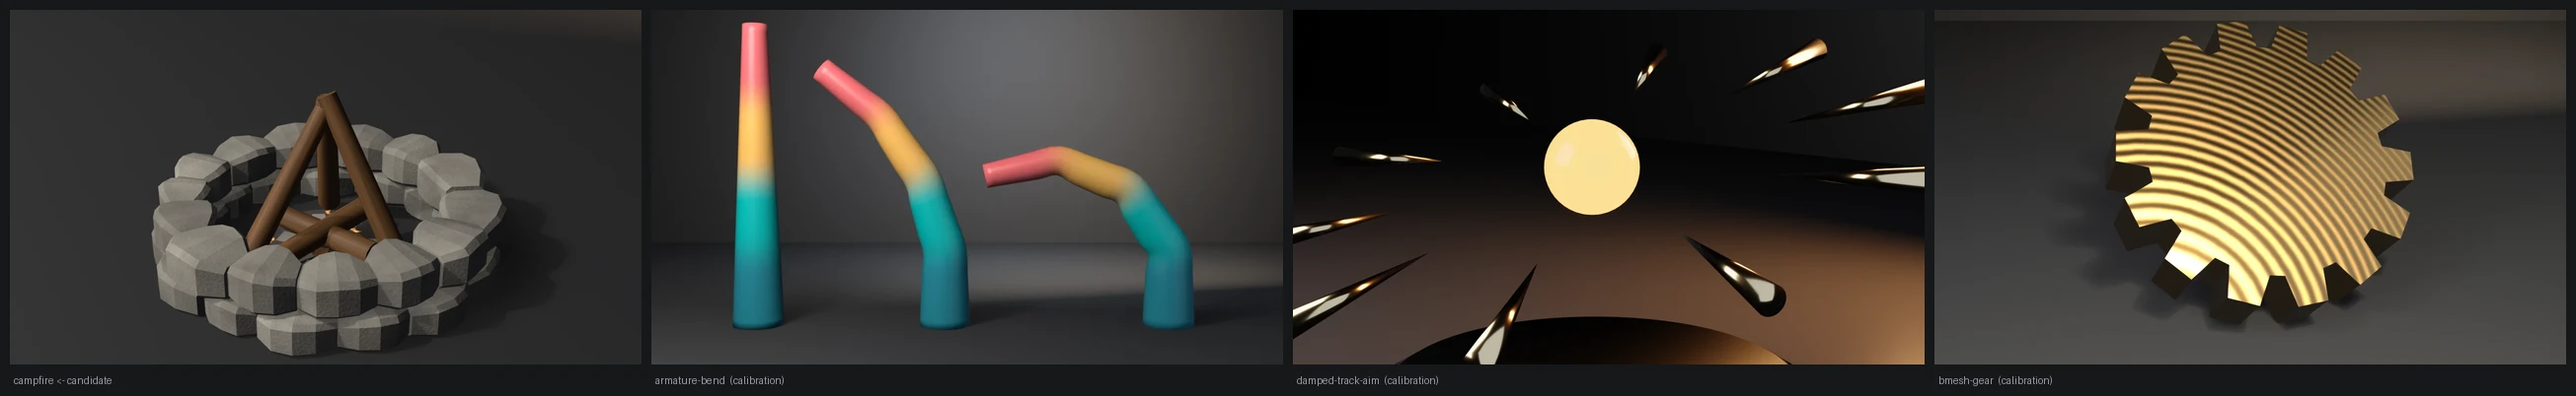
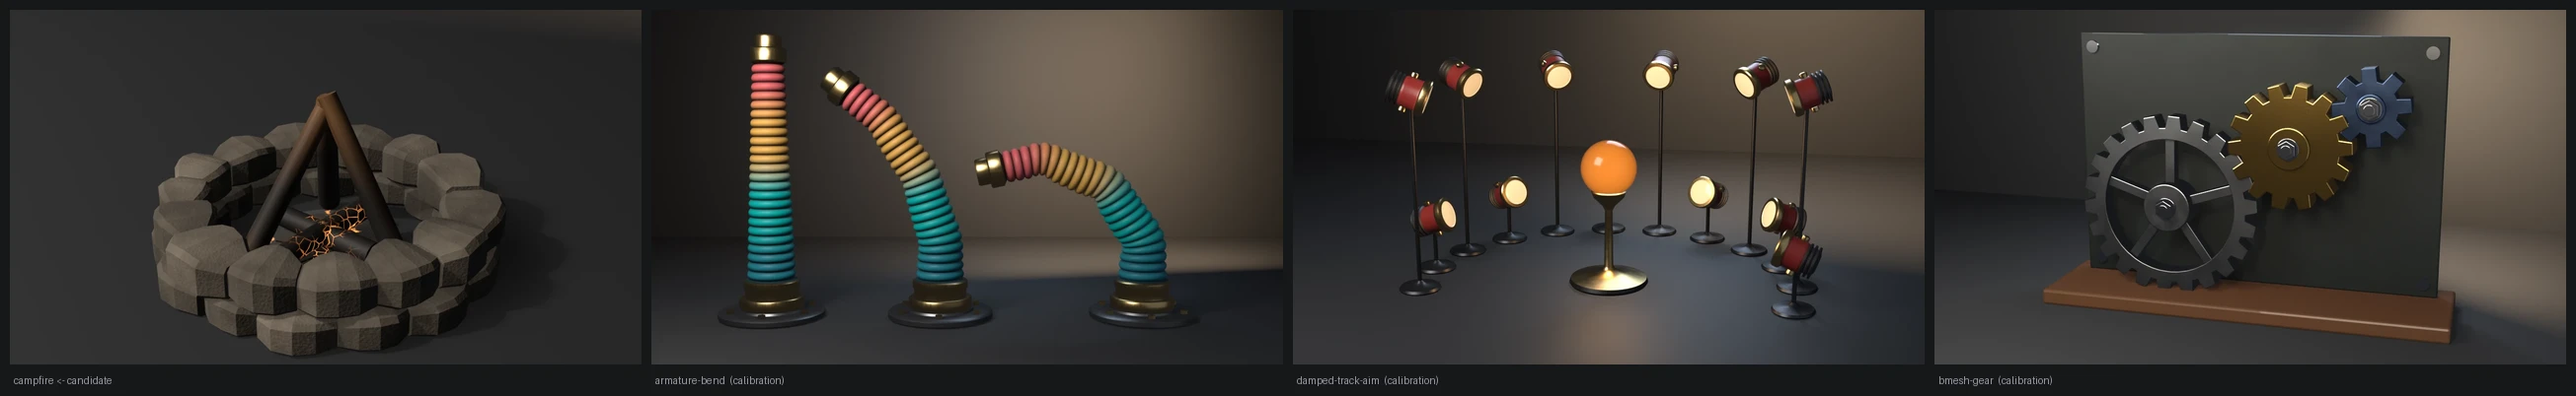
fix(showcase): char the campfire logs, crack the coals and soot the ring
The fire had never been lit: clean bark-brown sticks and a pale
concrete-grey ring. A heat field (distance from a core just above the
ash bed) now drives the shared shaders. Wood chars to near-black toward
the flames; the hottest char shows a Voronoi crack network, noise-masked
so only some cracks glow; stones are smoke-blackened on their inner
faces. Stone base colours move to a warm dark fieldstone with a wider
per-stone tone spread and a stronger pitting bump. The render adds a
warm shadow-soft point light in the ember bed. No geometry, slot or
budget change. Adds the CampfireLow/TroughLow/TowerLow SELECT rows to
scripts/asset_sheet.py so the asset-sheet gate can run on all three
round-three pieces.

Evidence (live, local .scratch binaries):
- blender-5.2.1-windows-x64 (Blender 5.2.1 LTS) and
  blender-4.5.11-windows-x64 (Blender 4.5.11 LTS): default exit 0;
  --skip-decimate 9, --stray-vert 15, --lift-z 16, --short-stones 16,
  --float-logs 17, --gap-courses 18, --uniform-stones 20 on both.
- --output renders and passes framing on both (fill y 0.750, margins
  >= 0.022).
- Contact sheet: luma 0.179 / stage 0.169 / warmth +0.093 / sat 0.074.
  Darker and less saturated than the calibration set (0.237-0.243 luma);
  the subject is grey stone and char by nature.
- Asset sheet (docs/gallery/asset-sheets/campfire.webp): reads as a lit
  fire pit beside the hydrant, drone, well, wheelbarrow and shelf; not
  the least-designed object.

diff --git a/showcase/campfire/campfire.py b/showcase/campfire/campfire.py
@@ -839,10 +839,77 @@ def wood_material(name):
     rough.inputs["To Max"].default_value = 0.52
     nt.links.new(noise.outputs["Fac"], rough.inputs["Value"])
     nt.links.new(rough.outputs["Result"], bsdf.inputs["Roughness"])
+    # Char: heat falls off with distance from the fire's core (the ash bed at
+    # the ring centre), so the tripod blackens toward the flames and keeps its
+    # bark colour at the far ends. Inside the char, cracked embers glow.
+    heat = _heat_field(nt, coord)
+    char = nt.nodes.new("ShaderNodeMapRange")
+    char.inputs["From Min"].default_value = 0.12
+    char.inputs["From Max"].default_value = 0.55
+    nt.links.new(heat, char.inputs["Value"])
+    cmix = nt.nodes.new("ShaderNodeMix")
+    cmix.data_type = "RGBA"
+    nt.links.new(char.outputs["Result"], _sock(cmix.inputs, "Factor_Float"))
+    nt.links.new(_sock(mix.outputs, "Result_Color"), _sock(cmix.inputs, "A_Color"))
+    _sock(cmix.inputs, "B_Color").default_value = (0.016, 0.013, 0.011, 1.0)
+    nt.links.new(_sock(cmix.outputs, "Result_Color"), bsdf.inputs["Base Color"])
+    crack = nt.nodes.new("ShaderNodeTexVoronoi")
+    crack.feature = "DISTANCE_TO_EDGE"
+    crack.inputs["Scale"].default_value = 42.0
+    nt.links.new(coord.outputs["Object"], crack.inputs["Vector"])
+    seam = nt.nodes.new("ShaderNodeMapRange")
+    seam.inputs["From Min"].default_value = 0.0
+    seam.inputs["From Max"].default_value = 0.035
+    seam.inputs["To Min"].default_value = 1.0
+    seam.inputs["To Max"].default_value = 0.0
+    nt.links.new(crack.outputs["Distance"], seam.inputs["Value"])
+    glow = nt.nodes.new("ShaderNodeMath")
+    glow.operation = "MULTIPLY"
+    nt.links.new(seam.outputs["Result"], glow.inputs[0])
+    hot = nt.nodes.new("ShaderNodeMapRange")
+    hot.inputs["From Min"].default_value = 0.70
+    hot.inputs["From Max"].default_value = 0.95
+    nt.links.new(heat, hot.inputs["Value"])
+    nt.links.new(hot.outputs["Result"], glow.inputs[1])
+    # only some of the cracks are live: a coarse noise mask breaks the net
+    live = nt.nodes.new("ShaderNodeTexNoise")
+    live.inputs["Scale"].default_value = 9.0
+    live.inputs["Detail"].default_value = 2.0
+    nt.links.new(coord.outputs["Object"], live.inputs["Vector"])
+    lmap = nt.nodes.new("ShaderNodeMapRange")
+    lmap.inputs["From Min"].default_value = 0.48
+    lmap.inputs["From Max"].default_value = 0.62
+    nt.links.new(live.outputs["Fac"], lmap.inputs["Value"])
+    masked = nt.nodes.new("ShaderNodeMath")
+    masked.operation = "MULTIPLY"
+    nt.links.new(glow.outputs["Value"], masked.inputs[0])
+    nt.links.new(lmap.outputs["Result"], masked.inputs[1])
+    bsdf.inputs["Emission Color"].default_value = (1.0, 0.30, 0.05, 1.0)
+    estr = nt.nodes.new("ShaderNodeMath")
+    estr.operation = "MULTIPLY"
+    estr.inputs[1].default_value = 3.5
+    nt.links.new(masked.outputs["Value"], estr.inputs[0])
+    nt.links.new(estr.outputs["Value"], bsdf.inputs["Emission Strength"])
     return mat
 
 
-def stone_material(name, light, dark, roughness, mottle, speck, bump):
+def _heat_field(nt, coord):
+    """0..1 heat: 1 at the fire's core just above the ash bed, 0 by ~0.34 m out."""
+    off = nt.nodes.new("ShaderNodeVectorMath")
+    off.operation = "SUBTRACT"
+    off.inputs[1].default_value = (0.0, 0.0, 0.06)
+    nt.links.new(coord.outputs["Object"], off.inputs[0])
+    dist = nt.nodes.new("ShaderNodeVectorMath")
+    dist.operation = "LENGTH"
+    nt.links.new(off.outputs["Vector"], dist.inputs[0])
+    heat = nt.nodes.new("ShaderNodeMapRange")
+    heat.inputs["From Min"].default_value = 0.34
+    heat.inputs["From Max"].default_value = 0.04
+    nt.links.new(dist.outputs["Value"], heat.inputs["Value"])
+    return heat.outputs["Result"]
+
+
+def stone_material(name, light, dark, roughness, mottle, speck, bump, soot=0.0, spread=0.8):
     """Fieldstone: isotropic mottling, speckle and pitting, a tone per stone.
 
     Copied from stone-archway, reading ``PieceTone`` for the per-stone
@@ -883,8 +950,8 @@ def stone_material(name, light, dark, roughness, mottle, speck, bump):
     tone.attribute_name = "PieceTone"
     shade = nt.nodes.new("ShaderNodeMath")
     shade.operation = "MULTIPLY_ADD"
-    shade.inputs[1].default_value = 0.8
-    shade.inputs[2].default_value = 0.6
+    shade.inputs[1].default_value = spread
+    shade.inputs[2].default_value = 1.0 - 0.5 * spread
     nt.links.new(tone.outputs["Fac"], shade.inputs[0])
     mix2 = nt.nodes.new("ShaderNodeMix")
     mix2.data_type = "RGBA"
@@ -893,6 +960,29 @@ def stone_material(name, light, dark, roughness, mottle, speck, bump):
     nt.links.new(_sock(mix.outputs, "Result_Color"), _sock(mix2.inputs, "A_Color"))
     nt.links.new(shade.outputs["Value"], _sock(mix2.inputs, "B_Color"))
     nt.links.new(_sock(mix2.outputs, "Result_Color"), bsdf.inputs["Base Color"])
+    if soot:
+        # smoke-blackened where the stones face the fire, patchy by mottle
+        heat = _heat_field(nt, coord)
+        smap = nt.nodes.new("ShaderNodeMapRange")
+        smap.inputs["From Min"].default_value = 0.05
+        smap.inputs["From Max"].default_value = 0.40
+        smap.inputs["To Max"].default_value = soot
+        nt.links.new(heat, smap.inputs["Value"])
+        patch = nt.nodes.new("ShaderNodeMath")
+        patch.operation = "MULTIPLY"
+        nt.links.new(smap.outputs["Result"], patch.inputs[0])
+        nt.links.new(mot.outputs["Fac"], patch.inputs[1])
+        pmul = nt.nodes.new("ShaderNodeMath")
+        pmul.operation = "MULTIPLY"
+        pmul.inputs[1].default_value = 1.6
+        pmul.use_clamp = True
+        nt.links.new(patch.outputs["Value"], pmul.inputs[0])
+        smix = nt.nodes.new("ShaderNodeMix")
+        smix.data_type = "RGBA"
+        nt.links.new(pmul.outputs["Value"], _sock(smix.inputs, "Factor_Float"))
+        nt.links.new(_sock(mix2.outputs, "Result_Color"), _sock(smix.inputs, "A_Color"))
+        _sock(smix.inputs, "B_Color").default_value = (0.022, 0.019, 0.017, 1.0)
+        nt.links.new(_sock(smix.outputs, "Result_Color"), bsdf.inputs["Base Color"])
     rough = nt.nodes.new("ShaderNodeMapRange")
     rough.inputs["To Min"].default_value = roughness - 0.06
     rough.inputs["To Max"].default_value = min(1.0, roughness + 0.08)
@@ -932,8 +1022,8 @@ def ash_material(name):
 def campfire_materials():
     """(stone, wood, ash): shared by the check, the render and inspection."""
     stone = stone_material(
-        "CampfireStone", (0.44, 0.42, 0.38, 1.0), (0.22, 0.215, 0.20, 1.0),
-        0.86, mottle=6.0, speck=160.0, bump=0.35,
+        "CampfireStone", (0.24, 0.20, 0.155, 1.0), (0.085, 0.07, 0.055, 1.0),
+        0.86, mottle=6.0, speck=160.0, bump=0.6, soot=0.85, spread=1.3,
     )
     wood = wood_material("CampfireWood")
     ash = ash_material("CampfireAsh")
@@ -1331,9 +1421,18 @@ def render_still(low, _stone, _tex, path, engine):
         ob.rotation_euler = tuple(math.radians(a) for a in rot)
         scene.collection.objects.link(ob)
 
-    light("Key", (-3.6, -5.0, 5.8), 680.0, 4.0, (1.0, 0.94, 0.86), (50, 0, -36))
-    light("Fill", (5.0, -3.6, 2.6), 48.0, 8.0, (0.72, 0.82, 1.0), (62, 0, 50))
+    light("Key", (-3.6, -5.0, 5.8), 640.0, 4.0, (1.0, 0.94, 0.86), (50, 0, -36))
+    light("Fill", (5.0, -3.6, 2.6), 40.0, 8.0, (0.72, 0.82, 1.0), (62, 0, 50))
     light("Wedge", (2.4, 4.2, 4.1), 640.0, 5.5, (1.0, 0.70, 0.40), (-70, 0, 198))
+    # the fire itself: a warm, shadow-soft point in the ember bed that lights
+    # the tripod's inner faces and the soot-dark inner ring (render only)
+    fire = bpy.data.lights.new("FireGlow", "POINT")
+    fire.energy = 260.0
+    fire.color = (1.0, 0.42, 0.12)
+    fire.shadow_soft_size = 0.08
+    fob = bpy.data.objects.new("FireGlow", fire)
+    fob.location = (0.0, 0.0, 0.07)
+    scene.collection.objects.link(fob)
 
     bb = world_bbox(low)
     span = max(bb[3] - bb[0], bb[4] - bb[1], bb[5] - bb[2], 0.2)

diff --git a/scripts/asset_sheet.py b/scripts/asset_sheet.py
@@ -77,6 +77,9 @@ SELECT = {
     "shipping-crate": (r"^CrateLow$", None),
     "signpost": (r"^SignpostLow$", None),
     "hitching-post": (r"^HitchPostLow$", None),
+    "campfire": (r"^CampfireLow$", None),
+    "water-trough": (r"^TroughLow$", None),
+    "watchtower": (r"^TowerLow$", None),
     "triangulate-tangents": (r"^Buckler(\.Rivets)?$", None),
     "car-mirror-symmetry": (r"^(CarBody|Wheel(Front|Rear)|Headlamp|Taillamp|Grille"
                             r"|DoorMirror|DoorHandle(Front|Rear))$", None),

diff --git a/showcase/campfire/README.md b/showcase/campfire/README.md
@@ -90,6 +90,8 @@ The stated ring height rose from 0.156 to 0.176 m for the crowns.
 upper bound, so the ring keeps the envelope of its widest seeded stone
 and only this budget fails (exit 20, spread 0.00000).
 
+**Fire, char and soot (render and shaders only; no budget changed).** The logs were a clean bark brown and the ring a pale concrete grey, so nothing in the still said the fire had ever been lit. A heat field (distance from a core just above the ash bed) now drives three things in the shared shaders: wood chars to near-black toward the flames, the hottest charred wood shows cracked embers (a Voronoi edge network, masked by a coarse noise so only some cracks are live), and stones are smoke-blackened where they face the fire. Stone base colours dropped to a warm dark fieldstone with a wider per-stone tone spread. The render adds a warm point light in the ember bed. Material slots and face counts are unchanged.
+
 Stone is isotropic mottling, speckle and pitting with a seeded tone per
 stone (`stone-archway`'s recipe, reading `PieceTone`); sticks and logs
 carry their own tone and grain along their axis; the ash has sparse
